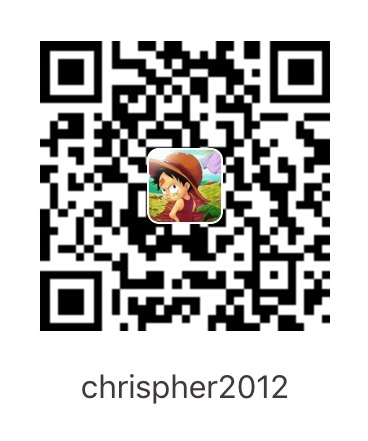
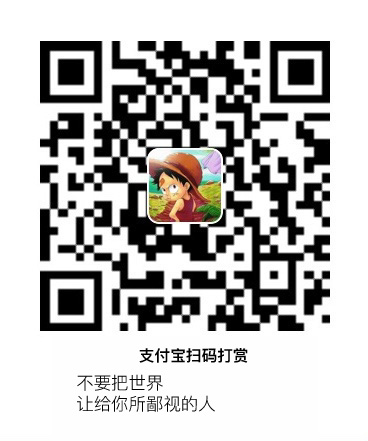
add zhifubao

Changed region(s): [[0.2092, 0.7664, 0.7772, 0.9433]]

diff --git a/_layouts/post.html b/_layouts/post.html
@@ -27,13 +27,7 @@ layout: default
                 {{content}}
             </div>
             <div class="navbar panel-footer operate" align="center">
-              <form action="https://shenghuo.alipay.com/send/payment/fill.htm" method="POST" target="_blank" accept-charset="GBK">
-              <input name="optEmail" type="hidden" value="chrispher2012@gmail.com"/>
-              <input name="payAmount" type="hidden" value="10"/>
-              <input id="title" name="title" type="hidden" value=""/>
-              <input name="memo" type="hidden" value="扫描打赏"/>
-              <input name="pay" type="image" value="打赏" src="/images/zhifubao.jpg"/>
-              </form>
+              <img src="/images/zhifubao.jpg" height="200" width="200">
             </div>
             <div class="navbar pager">
                 {% if page.previous %}
@@ -47,9 +41,9 @@ layout: default
                 <span class="next">下一篇&nbsp;</span>
                 {% endif %}
             </div>
-            <span id="busuanzi_container_page_pv">
+            <div id="busuanzi_container_page_pv">
                 本文总阅读量<span id="busuanzi_value_page_pv"></span>次
-            </span>
+            </dic>
             {% include comment.html%}
         </div>
     </div>

diff --git a/_includes/author.html b/_includes/author.html
@@ -76,11 +76,11 @@
         {% endif %}
 
         <a class="rss" href="/page/feed.xml" title="RSS订阅" target="_blank"><i class="fa fa-rss"></i></a>
-
-        <span id="busuanzi_container_site_pv">
+    </div>
+    <div class="panel-body" align="center">
+        <a id="busuanzi_container_site_pv">
             本站总访问量<span id="busuanzi_value_site_pv"></span>次
-        </span>
-
+        </a>
     </div>
 
 </div>
